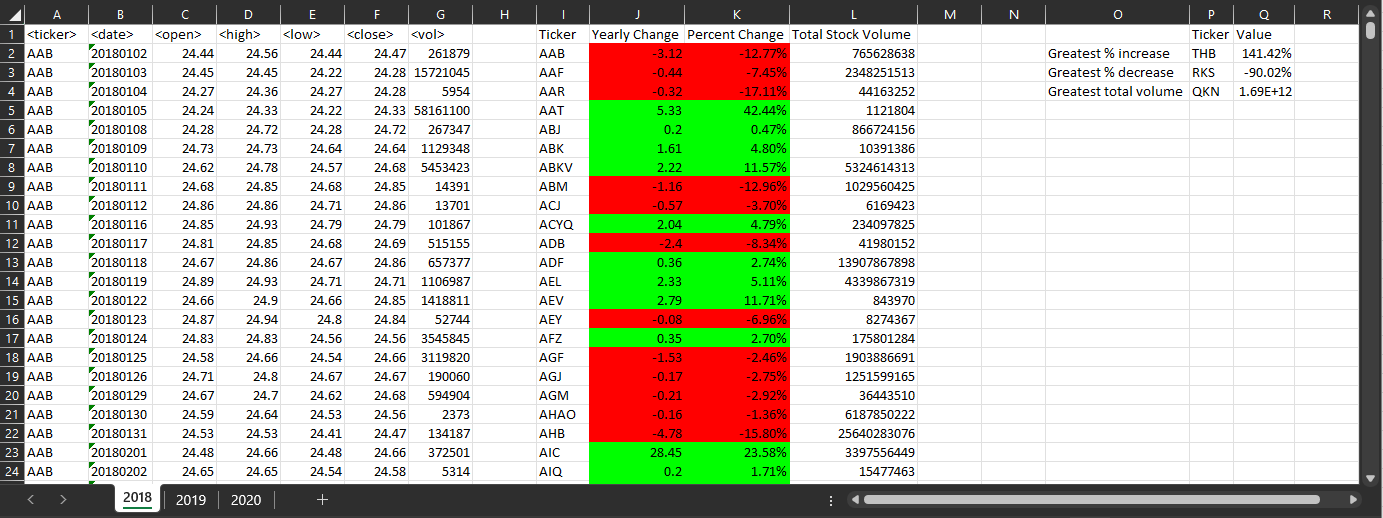
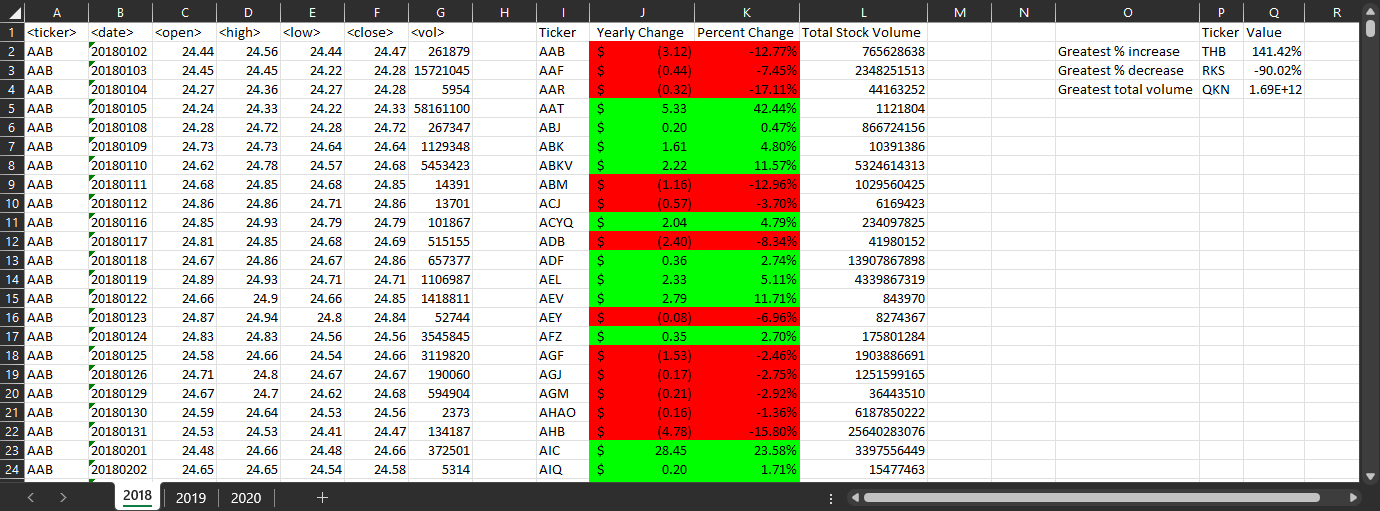
adding currency format to the yearly change column in the VBA script; adding the VBA script folder context to the readme

Changed region(s): [[0.0, 0.0, 1.0, 1.0]]

diff --git a/README.md b/README.md
@@ -2,7 +2,7 @@
 This repository contains challenge files for UT DAV Bootcamp Module 2 VBA Scripting
 
 # File Notes
-* StocksummaryPerTab.vbs is the script that implements the requirements documented within the Instructions section with a summary on each tab. (makes sense for Multiple_year_stock_data workbook)
+* VBA_Scripts\StocksummaryPerTab.vbs is the script that implements the requirements documented within the Instructions section with a summary on each tab. (makes sense for Multiple_year_stock_data workbook)
    * Note: This script assumes (per TA guidance) the the data is sorted alphadetically by ticker name then chronologicaly by date. This assumption allows for lighter processer usage during the analysis.
 * The Results_Screenshots folder contains screenshots of each tab after executing the script on Multiple_year_stock_data.
    * MultiYearStock_20##Results are for each tab of the Multiple_year_stock_data workbook from using StocksummaryPerTab.vbs on the file. 
